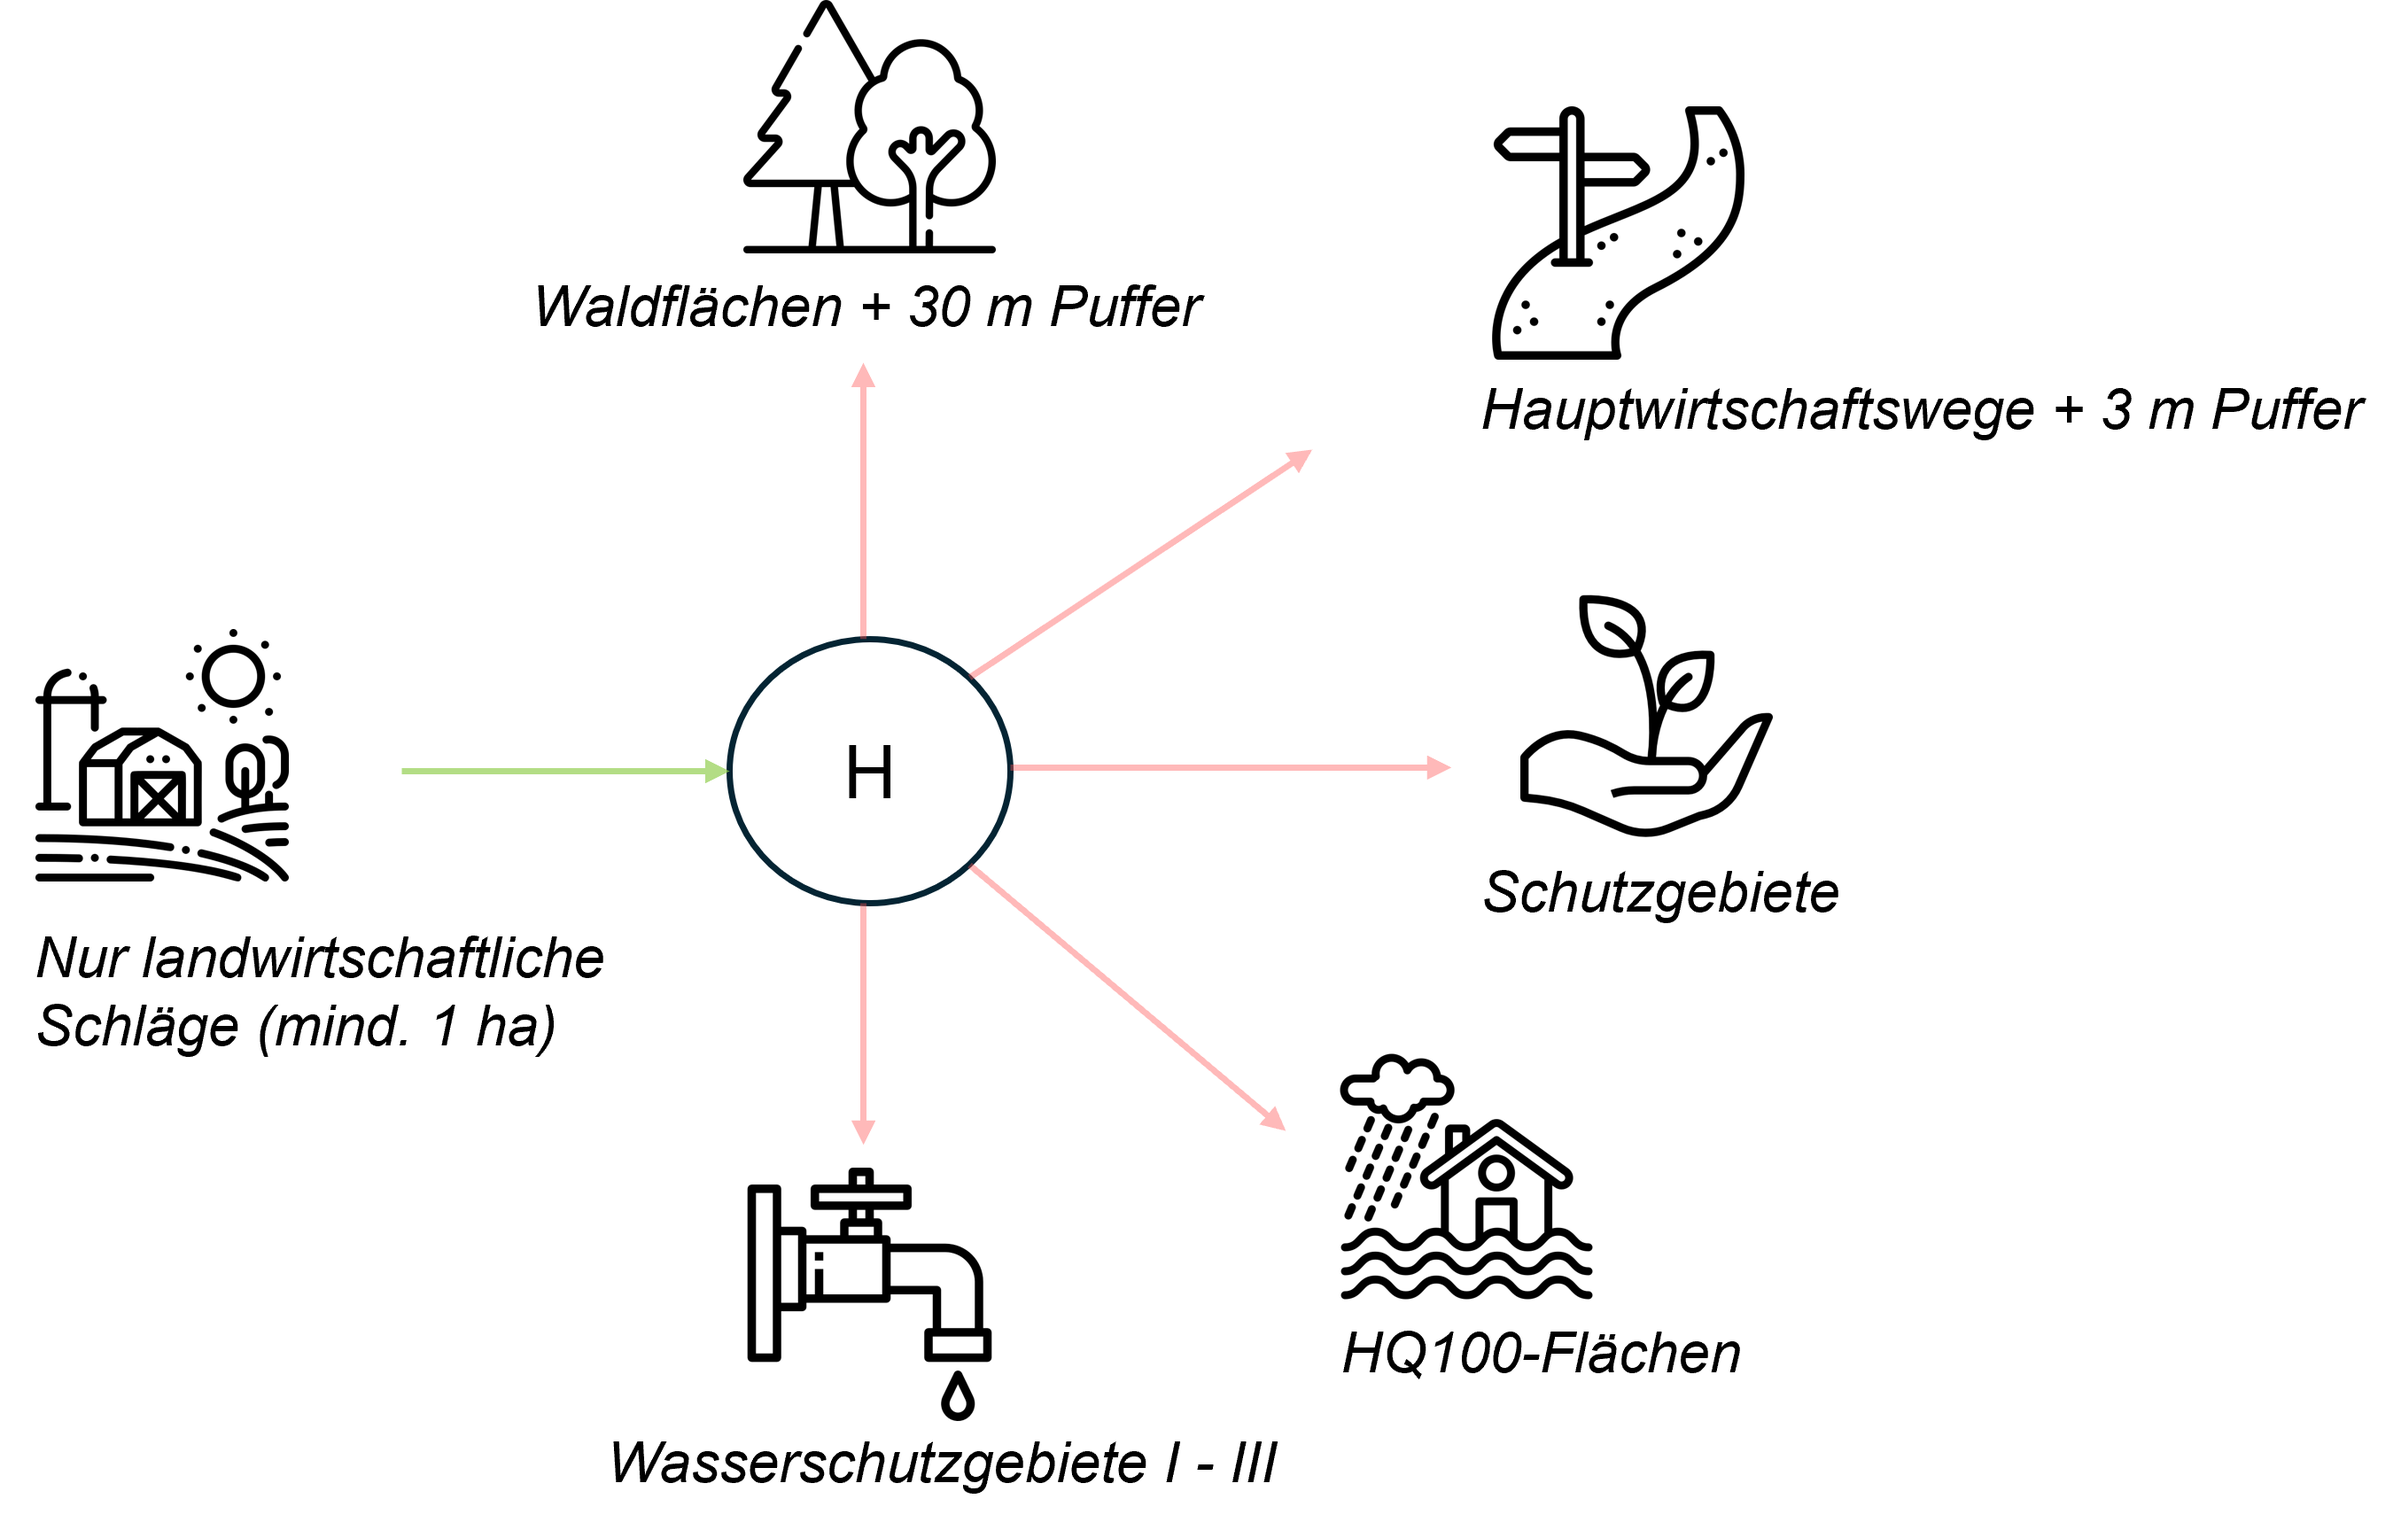
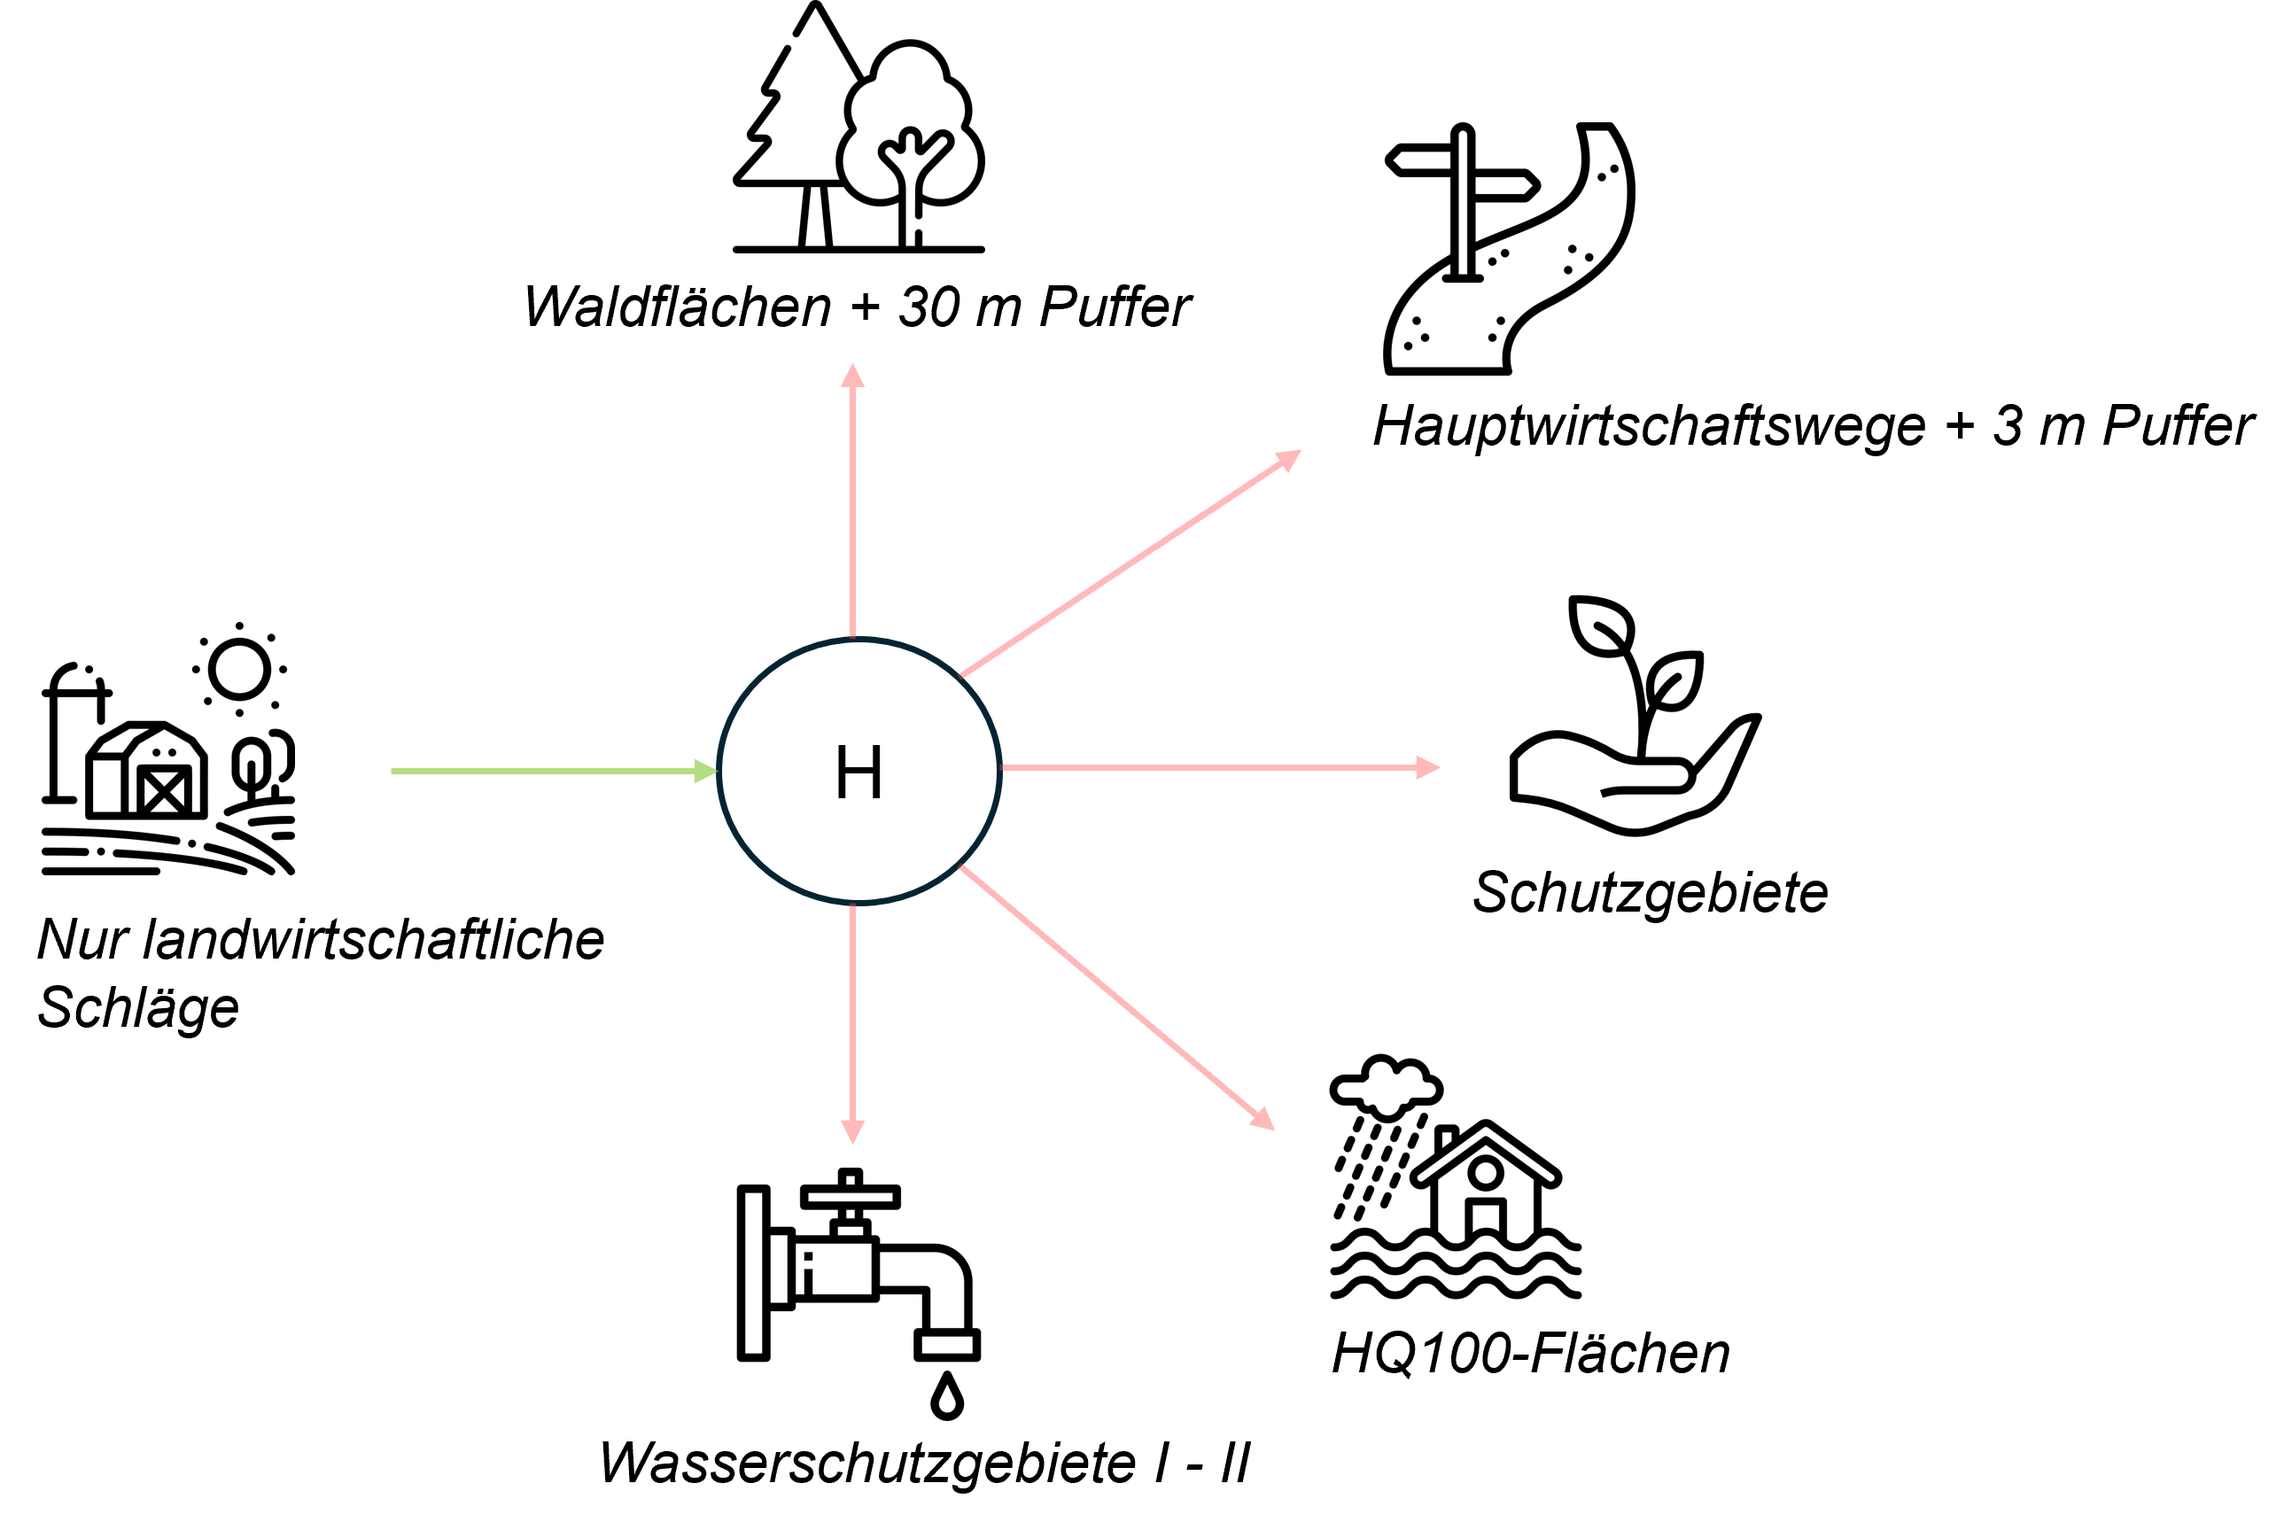
Update ha und WSG

diff --git a/README.md b/README.md
@@ -51,7 +51,7 @@ Zur Bewertung wurden zwei Arten von Kriterien abgeleitet.
 #### 1. Harte Ausschlusskriterien
 
 <div align="justify">
-Zunächst kommen harte Ausschlusskriterien zum Einsatz: Sie filtern alle Flächen heraus, die für Freiflächen-PV rechtlich, ökologisch oder praktisch nicht infrage kommen. Diese sind in der Abbildung aufgezählt. Unter Schutzgebiete fallen jegliche naturschutzrechtlichen Fläche wie bspw. Naturschutzgebiete, Vogelschutzgebiete und Natura 2000-Gebiete. Da die Pachtung bzw. der Erwerb eines Schlags mit einem bürokratischen Aufwand verbunden ist, werden außerdem nur landwirtschaftliche Schläge mit mindestens einem Hektar Fläche berücksichtigt.</div>
+Zunächst kommen harte Ausschlusskriterien zum Einsatz: Sie filtern alle Flächen heraus, die für Freiflächen-PV rechtlich, ökologisch oder praktisch nicht infrage kommen. Diese sind in der Abbildung aufgezählt. Unter Schutzgebiete fallen jegliche naturschutzrechtlichen Fläche wie bspw. Naturschutzgebiete, Vogelschutzgebiete und Natura 2000-Gebiete.</div>
 <div align="justify">
 <p>Übrig bleiben die landwirtschaftlichen Flächen, die grundsätzlich bebaut werden könnten.</p>
 </div>
@@ -98,12 +98,9 @@ Zunächst kommen harte Ausschlusskriterien zum Einsatz: Sie filtern alle Fläche
 <div style="font-size: 0.85em; margin-top: 0; padding-top: 0;"><em>Abbildung 2: Weiche Bewertungskriterien und das allgemeine Bewertungsschema</em></div>
 
 
-**HIER NACH 1 ha nochmal gucken, also wie selektieren wir?**
-
-
 #### 3. Rasterbasierte Gesamtbewertung
 <div align="justify">
-<p>Die eigentliche Bewertung erfolgte rasterbasiert. Ein Raster kann man sich dabei wie ein Schachbrettmuster vorstellen: Die Untersuchungsfläche wird in viele kleine, gleich große, quadratische Felder unterteilt, und jedes Feld erhält für die jeweiligen Kriterien einen Wert zwischen 1 (sehr schlecht geeignet) und 5 (sehr gut geeignet), welcher die PV-Eignung detailliert beschreibt. Die genauen Bewertungszuordnungen finden sich im Anhang der ausführlicheren <a href="https://github.com/morkra25/FOSSGIS_Solar_Project_Kleinwort_Krause/tree/main/Dokumentation">Methodik-Dokumentation.</a>
+<p>Die eigentliche Bewertung erfolgt rasterbasiert. Ein Raster kann man sich dabei wie ein Schachbrettmuster vorstellen: Die Untersuchungsfläche wird in viele kleine, gleich große, quadratische Felder unterteilt, und jedes Feld erhält für die jeweiligen Kriterien einen Wert zwischen 1 (sehr schlecht geeignet) und 5 (sehr gut geeignet), welcher die PV-Eignung detailliert beschreibt. Die genauen Bewertungszuordnungen finden sich im Anhang der ausführlicheren <a href="https://github.com/morkra25/FOSSGIS_Solar_Project_Kleinwort_Krause/tree/main/Dokumentation">Methodik-Dokumentation.</a>
 <strong>LINK Aktualiseren!!!!!</strong></p> 
 
 Die klassifizierten Raster werden anschließend vertikal „durchstochen“ und unter Berücksichtigung der Gewichtungsfaktoren miteinander gemittelt. Das Ergebnis ist ein Wert zwischen 1 und 5, der die Gesamtbewertung repräsentiert. 
@@ -115,6 +112,8 @@ Die klassifizierten Raster werden anschließend vertikal „durchstochen“ und 
 #### 4. Aggregation auf Schlagebene
 <div align="justify">
 Da für die Planung nicht das einzelne Pixel, sondern der landwirtschaftliche Schlag entscheidend ist, wurden die rasterbasierten Ergebnisse anschließend auf Schlagebene gemittelt.
+
+Hier findet noch eine weitere, abschließende Filterung statt: da mit der Pachtung bzw. dem Kauf eines Schlags ein gewisser bürokratischer Aufwand einhergeht, werden in diesem Schritt nur jene Schläge berücksichtig, welche mit mind. **1 ha an PV-Fläche** bestückt werden können.
 
 Zur Ergänzung der Eignungsbewertung wird abschließend für jeden potenziell geeigneten Schlag ein vereinfachter jährlicher Energieertrag abgeschätzt. Grundlage ist die aufsum-mierte jährliche Einstrahlungsmenge aus der Solarpotenzialanalyse, die mit einem Flächen-korrekturfaktor, einem Modulwirkungsgrad und einem Aufständerungsfaktor verrechnet werden und so die erwartbare jährliche Energie in MWh als zusätzliches Attribut den bewer-teten Flächen zugewiesen werden kann.  
 </div>
@@ -143,7 +142,7 @@ Die erste Karte zeigt zunächst ein Beispiel eines einzelnen Kriteriums, in dies
 
 <div style="font-size: 0.85em; margin-top: 0; padding-top: 0;"><em>Abbildung 4: Beispiel eines Einzelkriteriums (hier Bodengüte)</em></div>
 
-Die nächste Karte veranschaulicht die Umsetzung des Abzugs der beschriebenen Negativflächen von den Positivflächen in Form der mindestens 1 ha großen landwirtschaftlichen Flächen. 
+Die nächste Karte veranschaulicht die Umsetzung des Abzugs der beschriebenen Negativflächen von den Positivflächen, also den landwirtschaftlichen Flächen. 
 
 <img src="https://raw.githubusercontent.com/morkra25/BlogPost_FOSSGIS_Solar_PV_FFA_Kleinwort_Krause/refs/heads/main/images/Cuxhaven_Bsp_new.png" title="Abzug der nicht-bebaubaren Flächen von den landwirtschaftlichen Flächen" alt="Abzug der nicht-bebaubaren Flächen von den landwirtschaftlichen Flächen" width="75%">
 
